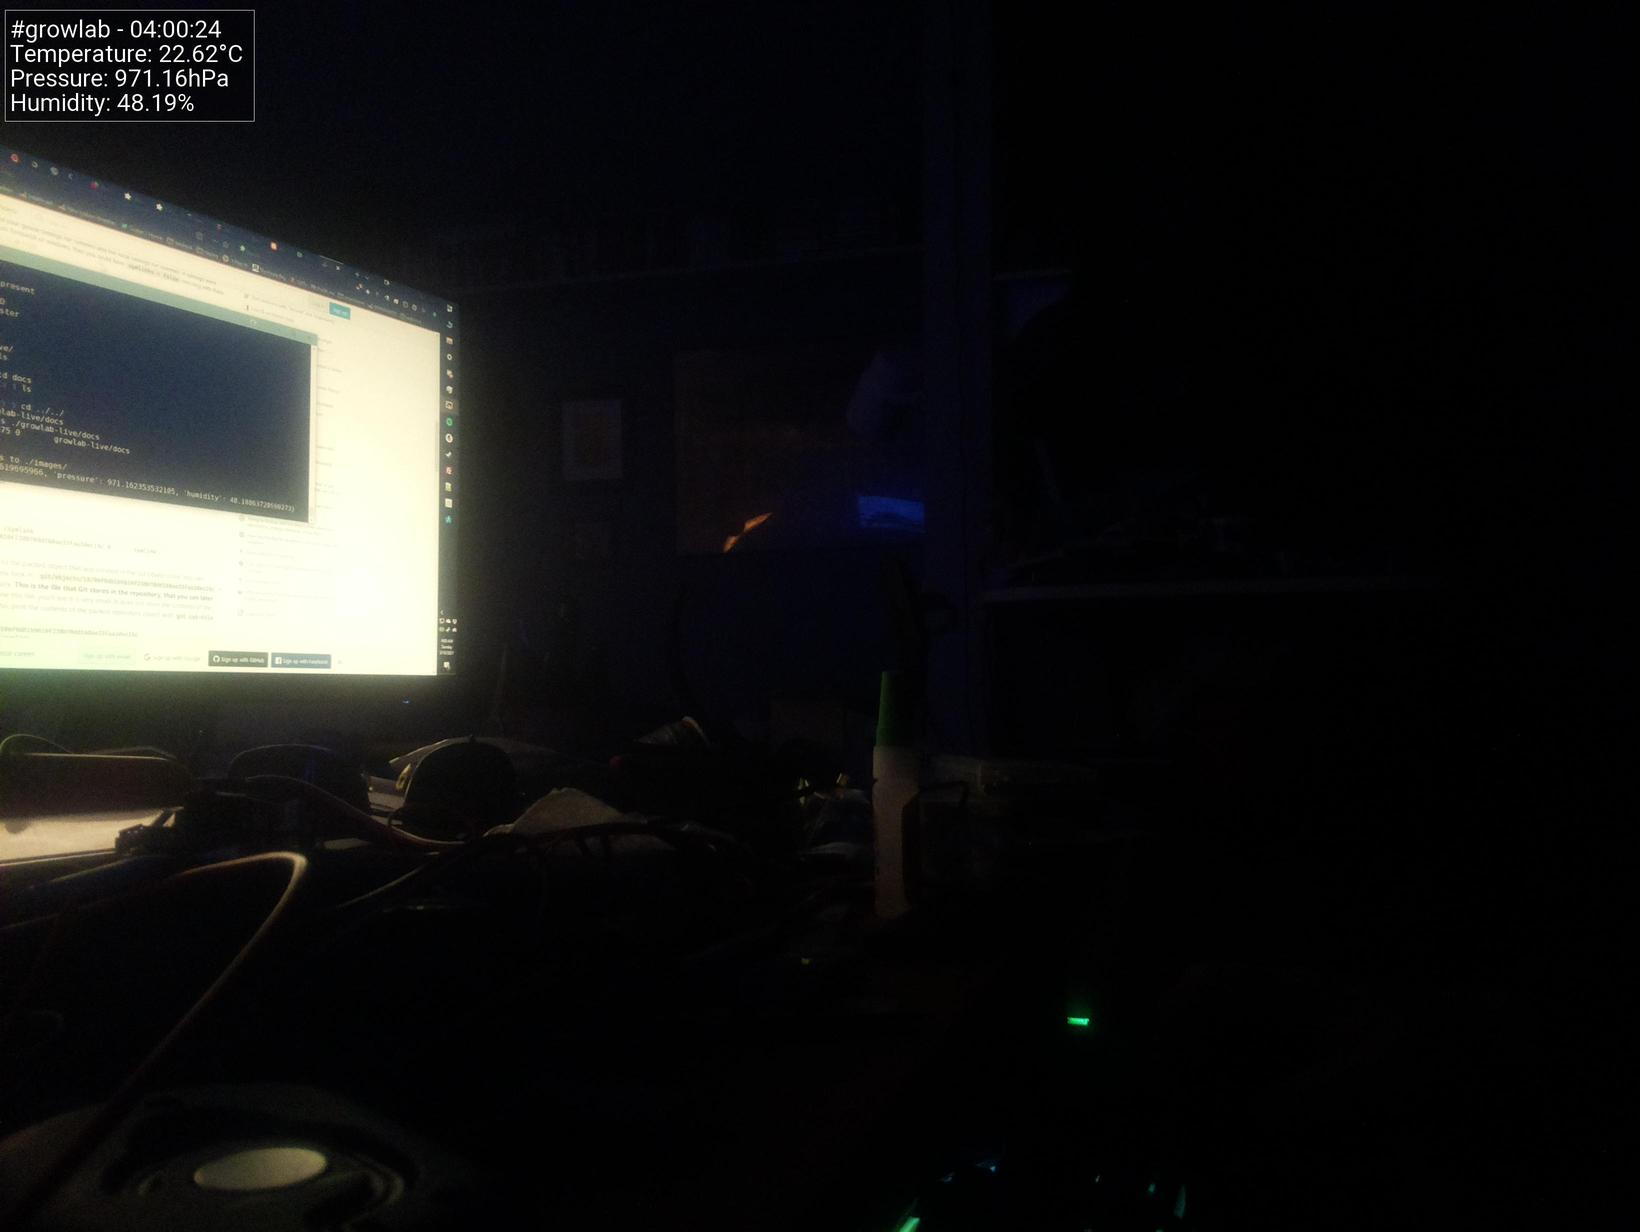
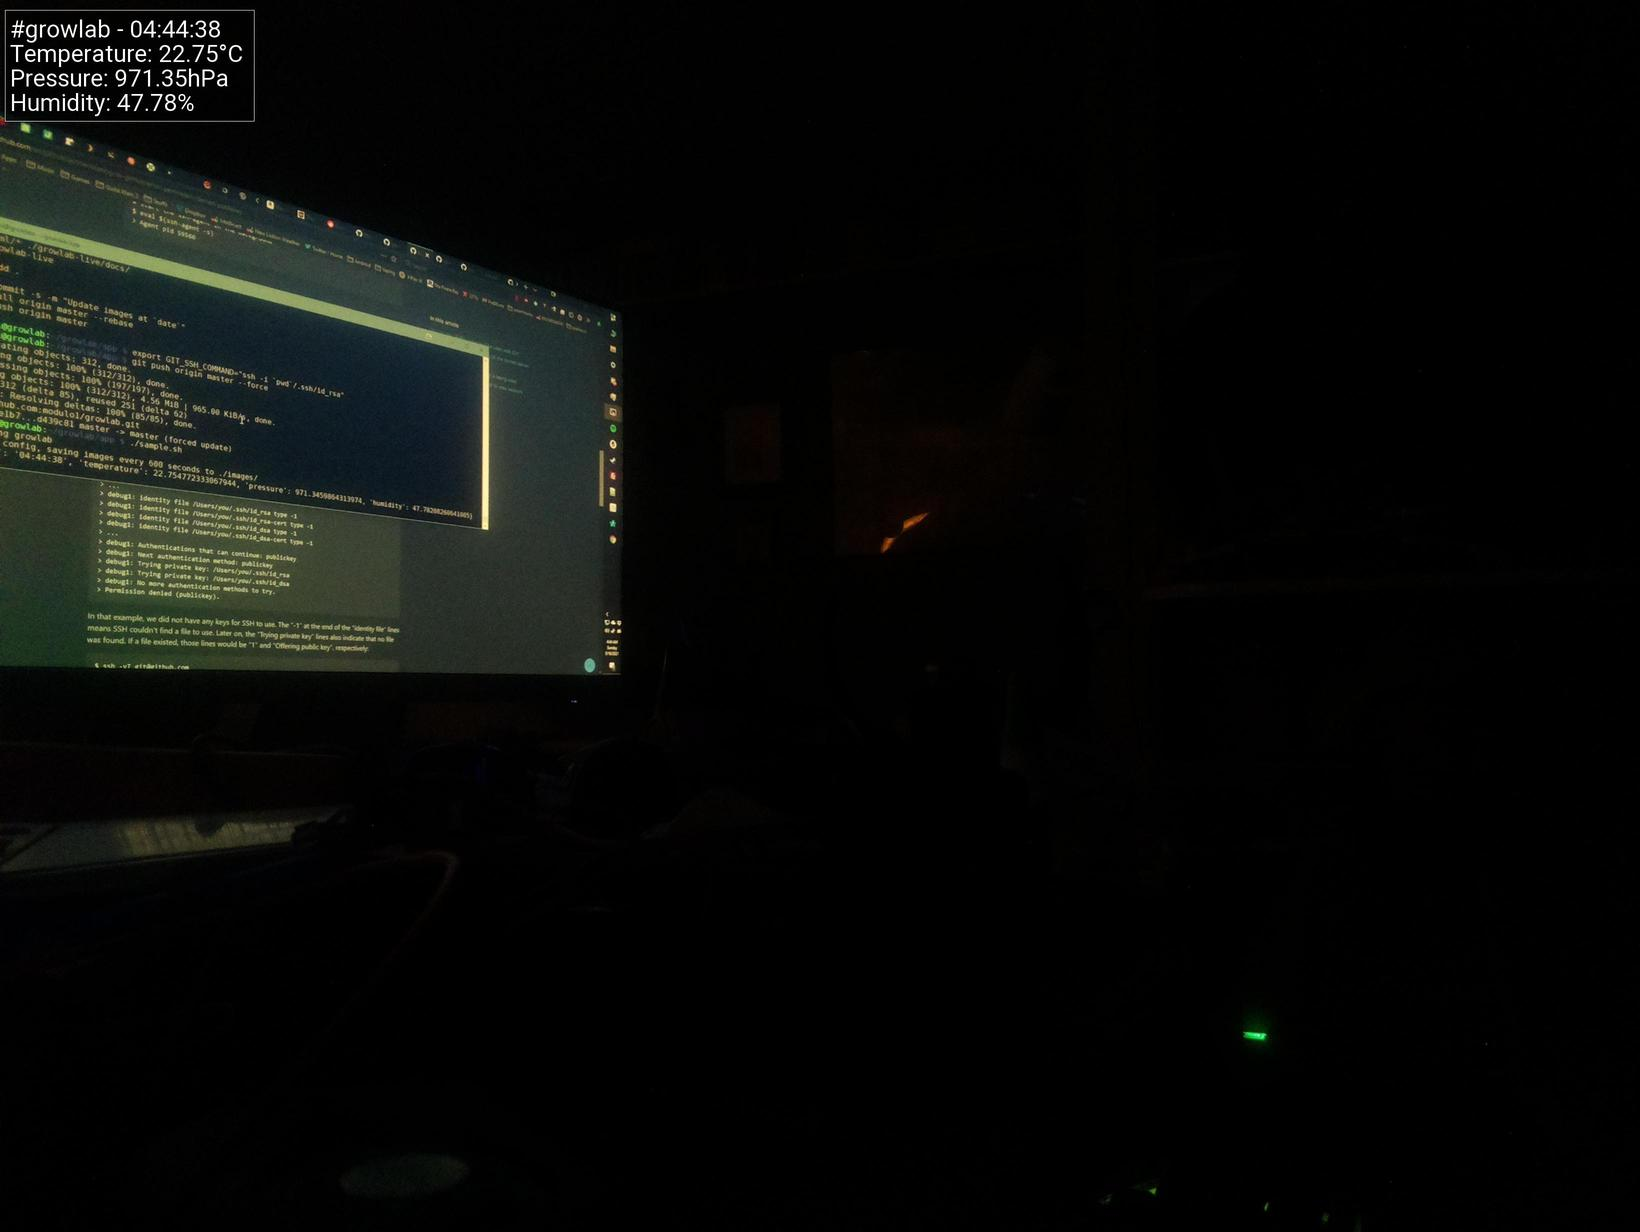
Update images at Sun May 16 04:46:51 EDT 2021

diff --git a/docs/index.html b/docs/index.html
@@ -38,19 +38,19 @@
                     <tbody>
                         <tr>
                             <td>Time</td>
-                            <td>04:00:24</td>
+                            <td>04:44:38</td>
                         </tr>
                         <tr>
                             <td>Temperature</td>
-                            <td>22.62°C</td>
+                            <td>22.75°C</td>
                         </tr>
                         <tr>
                             <td>Humidity</td>
-                            <td>48.19%</td>
+                            <td>47.78%</td>
                         </tr>
                         <tr>
                             <td>Pressure</td>
-                            <td>971.16hPa</td>
+                            <td>971.35hPa</td>
                         </tr>
                     </tbody>
                 </table>
@@ -58,7 +58,7 @@
 
                 <h5>Latest image</h5>
 		<div style="width: 85%;">
-	                <img class="figure-img img-fluid rounded" src="./preview.jpg?uid=1621152035.9861882">
+	                <img class="figure-img img-fluid rounded" src="./preview.jpg?uid=1621154689.8959973">
 		</div>
             </div>
         </div>
